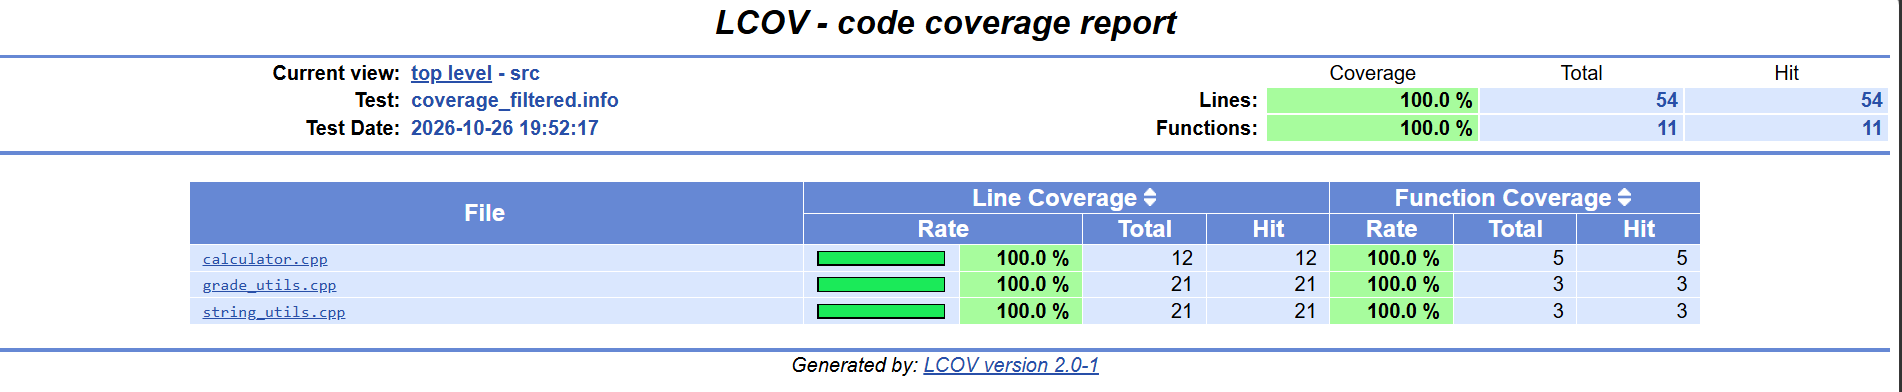
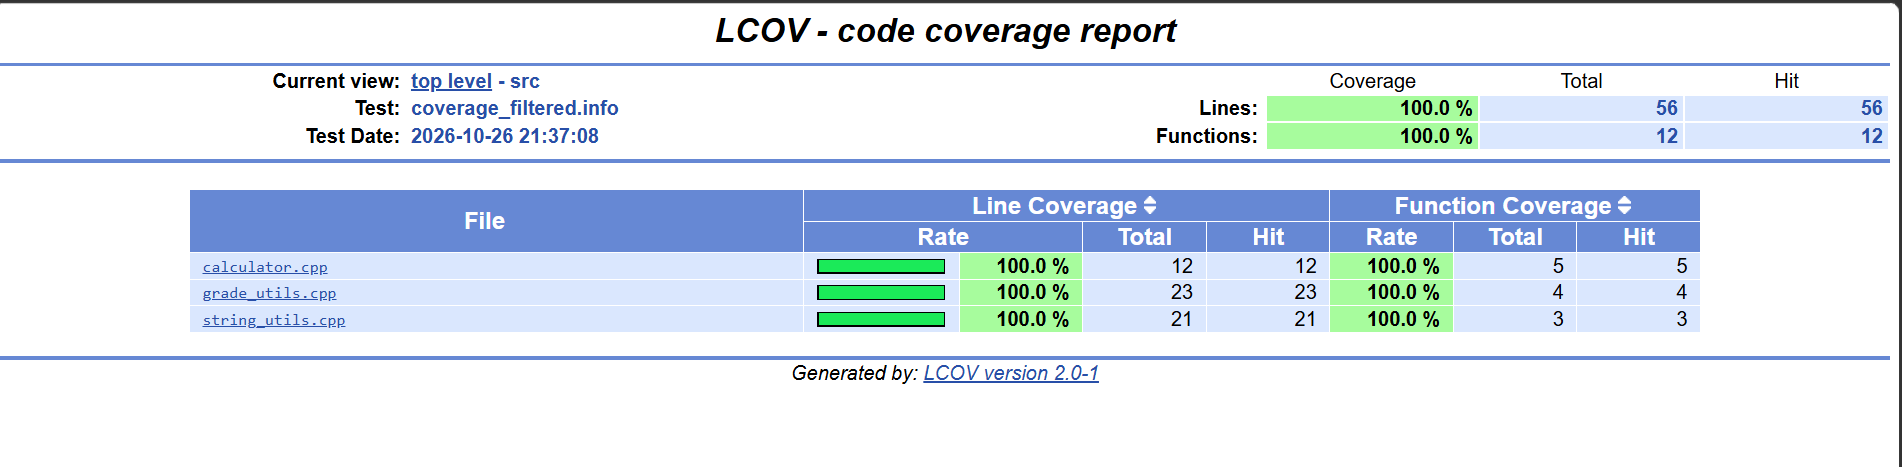
Actualiza cobertura y documentacion final del laboratorio

diff --git a/laboratorio-testing/docs/parte5-cobertura.md b/laboratorio-testing/docs/parte5-cobertura.md
@@ -1,0 +1,146 @@
+nano ../docs/parte5-cobertura.md
+# Parte 8. Cobertura de código
+
+## Objetivo
+
+Medir qué partes del código fuente fueron ejecutadas durante las pruebas automatizadas, utilizando lcov y genhtml para identificar la cobertura obtenida.
+
+## ¿Qué es la cobertura de código?
+
+La cobertura de código es una métrica que permite identificar qué líneas, funciones o ramas de un programa fueron ejecutadas durante las pruebas automatizadas.
+
+Esta información permite reconocer partes del código que todavía no han sido evaluadas y orientar el diseño de pruebas adicionales.
+
+## Herramientas utilizadas
+
+Se utilizaron las siguientes herramientas:
+
+- CMake: configuración y compilación del proyecto.
+- Google Test: ejecución de pruebas unitarias.
+- lcov: recopilación de datos de cobertura.
+- genhtml: generación del reporte de cobertura en formato HTML.
+
+## Procedimiento
+
+Primero, se configuró el proyecto con la opción de cobertura habilitada:
+
+```bash
+cmake -DENABLE_COVERAGE=ON ..
+make
+./run_tests
+```
+
+Posteriormente, se utilizó lcov para recopilar los datos de cobertura.
+
+Durante el procedimiento inicial se presentó un error relacionado con archivos de Google Test y la recopilación de información de cobertura.
+
+Para resolverlo, se limitó la recopilación a los archivos compilados de la biblioteca project_lib mediante el comando:
+
+```bash
+lcov --capture --directory CMakeFiles/project_lib.dir --output-file coverage.info
+```
+
+Después se filtró la información y se generó el reporte HTML:
+
+```bash
+lcov --remove coverage.info '/usr/*' '*/_deps/*' '*/tests/*' --output-file coverage_filtered.info
+genhtml coverage_filtered.info --output-directory coverage_report
+```
+
+Finalmente, se consultaron los resultados mediante:
+
+```bash
+lcov --list coverage_filtered.info
+```
+
+## Resultados obtenidos
+
+Después de implementar las pruebas del mini reto, se realizó una nueva medición de cobertura para incluir la función `is_valid_grade()`.
+
+Los resultados definitivos fueron:
+
+| Archivo | Líneas cubiertas | Funciones cubiertas |
+|---|---|---|
+| calculator.cpp | 100% (12/12) | 100% (5/5) |
+| grade_utils.cpp | 100% (23/23) | 100% (4/4) |
+| string_utils.cpp | 100% (21/21) | 100% (3/3) |
+| Total | 100% (56/56) | 100% (12/12) |
+
+La cobertura total alcanzó el 100% de las líneas y funciones instrumentadas.
+
+La nueva medición incluyó las cuatro funciones de grade_utils.cpp, incorporando la función is_valid_grade() desarrollada durante el mini reto.
+
+No se identificaron líneas ni funciones sin ejecutar. Sin embargo, la cobertura de ramas no fue medida, por lo que estos resultados no garantizan que se hayan probado todas las condiciones posibles del programa.
+
+
+## Resultados obtenidos
+
+Después de implementar las pruebas del mini reto, se realizó una nueva medición de cobertura para incluir la función `is_valid_grade()`.
+
+Los resultados definitivos fueron:
+
+| Archivo | Líneas cubiertas | Funciones cubiertas |
+|---|---|---|
+| calculator.cpp | 100% (12/12) | 100% (5/5) |
+| grade_utils.cpp | 100% (23/23) | 100% (4/4) |
+| string_utils.cpp | 100% (21/21) | 100% (3/3) |
+| Total | 100% (56/56) | 100% (12/12) |
+
+La cobertura total alcanzó el 100% de las líneas y funciones instrumentadas.
+
+La nueva medición incluyó las cuatro funciones de grade_utils.cpp, incorporando la función is_valid_grade() desarrollada durante el mini reto.
+
+No se identificaron líneas ni funciones sin ejecutar. Sin embargo, la cobertura de ramas no fue medida, por lo que estos resultados no garantizan que se hayan probado todas las condiciones posibles del programa.
+
+
+## Análisis de resultados
+
+### Archivo con mayor cobertura
+
+Los tres archivos evaluados alcanzaron una cobertura de líneas del 100%, por lo que ninguno presentó un porcentaje superior a los demás.
+
+### Archivo con menor cobertura
+
+Ninguno de los archivos presentó una cobertura inferior. Los tres alcanzaron el mismo porcentaje de cobertura.
+
+### Líneas o ramas no cubiertas
+
+El reporte no identificó líneas ni funciones sin ejecutar en los archivos analizados.
+
+Sin embargo, no se realizó una medición específica de cobertura de ramas. Por esta razón, el resultado no permite afirmar que todas las alternativas de las condiciones del programa hayan sido evaluadas.
+
+### Pruebas adicionales propuestas
+
+Aunque se alcanzó el 100% de cobertura de líneas y funciones, se pueden ampliar los escenarios evaluados mediante nuevas pruebas.
+
+1. Comprobar que count_vowels("AEIOU") devuelva 5, para verificar explícitamente el reconocimiento de vocales mayúsculas.
+2. Comprobar que divide(0, 5) devuelva 0, para evaluar una división cuyo dividendo sea cero.
+
+Estas pruebas ampliarían la variedad de entradas verificadas, aunque no necesariamente aumentarían el porcentaje de cobertura de líneas, que ya alcanzó el 100%.
+
+## Evidencia
+
+![Reporte de cobertura](evidencias/07-cobertura.png)
+
+## Preguntas de reflexión
+
+### 1. ¿Qué significa tener 100% de cobertura?
+
+Significa que todas las unidades de código consideradas por la métrica utilizada fueron ejecutadas durante las pruebas. En este caso, el 100% de cobertura de líneas indica que todas las líneas instrumentadas fueron ejecutadas.
+
+### 2. ¿Tener 100% de cobertura garantiza que el programa no tiene errores?
+
+No. Aunque todas las líneas hayan sido ejecutadas, pueden existir errores lógicos o comportamientos incorrectos que las pruebas no hayan detectado.
+
+### 3. ¿Qué diferencia hay entre cobertura de líneas y cobertura de ramas?
+
+La cobertura de líneas indica qué líneas del código fueron ejecutadas. La cobertura de ramas evalúa si se ejecutaron las distintas alternativas de las decisiones presentes en el programa.
+
+### 4. ¿Por qué una línea ejecutada no necesariamente significa que fue bien probada?
+
+Porque ejecutar una línea no garantiza que se haya comprobado correctamente su resultado ni que se hayan evaluado todas sus posibles condiciones de funcionamiento.
+
+### 5. ¿Cómo puede ayudar la cobertura a mejorar las pruebas?
+
+Permite identificar partes del programa que no han sido ejecutadas y orientar la implementación de nuevos casos de prueba. También ayuda a reconocer limitaciones en las verificaciones existentes.
+

diff --git a/laboratorio-testing/docs/parte2-pruebas-unitarias.md b/laboratorio-testing/docs/parte2-pruebas-unitarias.md
@@ -44,3 +44,137 @@ podría producir errores adicionales o resultados inválidos.
 ### Evidencia del fallo
 
 ![Fallo intencional con ASSERT](evidencias/03-fallo-assert.png)
+
+## Parte 2. Implementación inicial del código
+
+### Módulos implementados
+
+Se implementaron tres módulos principales en C++:
+
+- calculator: operaciones matemáticas y verificación de números pares.
+- string_utils: conversión de cadenas a mayúsculas, identificación de palíndromos y conteo de vocales.
+- grade_utils: cálculo de promedios, identificación de notas aprobatorias y conversión de calificaciones numéricas a letras.
+
+### Función de los archivos
+
+Los archivos .h contienen las declaraciones de las funciones y permiten que otros archivos del proyecto conozcan sus interfaces.
+
+Los archivos .cpp contienen la implementación de las funciones y las instrucciones necesarias para realizar sus operaciones.
+
+Esta separación facilita la organización, reutilización y mantenimiento del código.
+
+### Casos normales, borde e inválidos
+
+En calculator se identificaron casos normales como sumas y multiplicaciones, casos borde como operaciones con cero y casos inválidos como divisiones entre cero.
+
+En string_utils se identificaron casos normales como convertir texto a mayúsculas, casos borde como cadenas vacías y cadenas de un solo carácter.
+
+En grade_utils se identificaron casos normales como calcular promedios y convertir calificaciones, casos borde como notas de 0, 70 y 100, y casos inválidos como listas vacías o calificaciones fuera del intervalo permitido.
+
+## Parte 3. Primeras pruebas unitarias
+
+### Objetivo
+
+Implementar pruebas automatizadas mediante Google Test para verificar el funcionamiento individual de las funciones desarrolladas.
+
+### Pruebas implementadas
+
+Inicialmente se implementaron 25 pruebas distribuidas de la siguiente manera:
+
+| Módulo | Pruebas |
+|---|---|
+| CalculatorTest | 8 |
+| StringUtilsTest | 7 |
+| GradeUtilsTest | 10 |
+| Total | 25 |
+
+### Comandos utilizados
+
+Desde la carpeta build se ejecutaron los siguientes comandos:
+
+```bash
+cmake ..
+make
+./run_tests
+ctest --output-on-failure
+```
+
+### Resultados
+
+Las 25 pruebas iniciales se ejecutaron correctamente.
+
+También se utilizó CTest, que permitió verificar la ejecución de las pruebas integradas con CMake.
+
+### Explicación de cinco pruebas
+
+#### 1. AddPositiveNumbers
+
+Comprueba que la función add() retorne el resultado correcto al sumar dos números positivos.
+
+Se evalúa add(2, 3) y se espera obtener 5.
+
+#### 2. DivideByZeroThrowsException
+
+Verifica que la función divide() produzca una excepción de tipo std::invalid_argument cuando el divisor es cero.
+
+Esta prueba permite comprobar que el programa maneja una operación inválida.
+
+#### 3. DetectSimplePalindrome
+
+Comprueba que is_palindrome("radar") devuelva true, porque la cadena se lee igual en ambos sentidos.
+
+#### 4. CalculateAverage
+
+Verifica que average() calcule correctamente el promedio de las calificaciones 80, 90 y 100.
+
+El resultado esperado es 90.
+
+#### 5. InvalidGradeThrowsException
+
+Comprueba que letter_grade(120) produzca una excepción, debido a que 120 está fuera del intervalo válido de calificaciones.
+
+### Evidencias
+
+![Pruebas iniciales de Google Test](evidencias/01-pruebas-google-test.png)
+
+![Ejecución mediante CTest](evidencias/02-pruebas-ctest.png)
+
+### Preguntas de reflexión
+
+#### 1. ¿Qué significa que una prueba pase?
+
+Significa que las comprobaciones realizadas durante esa prueba se cumplieron y que el resultado observado coincidió con lo esperado.
+
+#### 2. ¿Qué significa que una prueba falle?
+
+Significa que alguna comprobación no produjo el resultado esperado o que ocurrió un problema durante la ejecución.
+
+#### 3. ¿Qué diferencia hay entre probar una función manualmente y probarla con Google Test?
+
+Las pruebas manuales requieren ejecutar y revisar los resultados individualmente. Google Test automatiza las comprobaciones y permite ejecutarlas repetidamente.
+
+#### 4. ¿Por qué las pruebas unitarias deben ser rápidas?
+
+Porque suelen ejecutarse frecuentemente durante el desarrollo. Una ejecución rápida facilita detectar errores después de modificar el código.
+
+#### 5. ¿Por qué las pruebas unitarias deben ser deterministas?
+
+Porque deben producir resultados consistentes bajo las mismas condiciones. Esto permite identificar errores y reproducir fallos de manera confiable.
+
+## Preguntas adicionales sobre EXPECT y ASSERT
+
+### 1. ¿Cuándo conviene usar EXPECT_?
+
+Cuando se desea registrar un fallo sin detener inmediatamente la prueba, permitiendo continuar con otras comprobaciones.
+
+### 2. ¿Cuándo conviene usar ASSERT_?
+
+Cuando una condición es indispensable para continuar la prueba de manera segura o para que las siguientes verificaciones tengan sentido.
+
+### 3. ¿Qué podría pasar si se usa EXPECT_ cuando en realidad se necesitaba detener la prueba?
+
+La prueba podría continuar utilizando valores inválidos y generar errores adicionales o resultados que dificulten identificar el problema original.
+
+### 4. ¿Qué podría pasar si se usa ASSERT_ en exceso?
+
+Se podría interrumpir la ejecución antes de realizar otras verificaciones independientes, reduciendo la información obtenida sobre posibles fallos.

diff --git a/laboratorio-testing/docs/parte1-plan-pruebas.md b/laboratorio-testing/docs/parte1-plan-pruebas.md
@@ -74,3 +74,67 @@ Significa concentrarse en qué resultados debe producir el programa ante determi
 #### 4. ¿Por qué la documentación de casos de prueba ayuda al equipo?
 
 Porque permite identificar los requisitos evaluados, las entradas utilizadas y los resultados esperados, facilitando la comprensión, reproducción y mantenimiento de las pruebas.
+
+## Parte 1. Preparación del proyecto
+
+### Objetivo
+
+Preparar el entorno de desarrollo y establecer la estructura de un proyecto en C++ que permita implementar y ejecutar pruebas automatizadas mediante Google Test y CMake.
+
+### Herramientas utilizadas
+
+#### CMake
+
+CMake es una herramienta que permite configurar y organizar la compilación de proyectos de software.
+
+En este laboratorio se utilizó para establecer el estándar C++17, definir los archivos fuente, integrar Google Test y generar el ejecutable encargado de las pruebas.
+
+#### Google Test
+
+Google Test es un framework para implementar pruebas automatizadas en C++.
+
+Permite definir casos de prueba y utilizar instrucciones como `EXPECT_EQ`, `EXPECT_TRUE`, `EXPECT_FALSE` y `ASSERT_NE` para comprobar el comportamiento de las funciones.
+
+#### Automatización de pruebas
+
+Automatizar pruebas consiste en preparar verificaciones que puedan ejecutarse mediante comandos, sin necesidad de comprobar manualmente cada resultado.
+
+Esto permite repetir las verificaciones después de realizar modificaciones en el código.
+
+#### Repetibilidad
+
+Una prueba repetible permite obtener resultados consistentes cuando se ejecuta bajo las mismas condiciones.
+
+Esta característica es importante porque facilita identificar errores y comprobar que las correcciones realizadas funcionan correctamente.
+
+### Estructura creada
+
+Se creó la carpeta `laboratorio-testing` dentro del repositorio del curso.
+
+El proyecto se organizó en las siguientes carpetas:
+
+- `include/`: declaraciones de funciones en archivos de cabecera.
+- `src/`: implementación de las funciones en C++.
+- `tests/`: pruebas automatizadas mediante Google Test.
+- `docs/`: documentación de las actividades y resultados.
+- `.github/workflows/`: configuración del workflow de GitHub Actions.
+
+También se creó el archivo `CMakeLists.txt` para configurar la compilación.
+
+### Preguntas de reflexión
+
+#### 1. ¿Por qué conviene separar el código fuente de las pruebas?
+
+Porque facilita la organización y el mantenimiento del proyecto. Además, permite modificar las pruebas sin alterar directamente la implementación de las funciones.
+
+#### 2. ¿Qué ventaja tiene usar CMake en un proyecto de C++?
+
+Permite organizar la compilación y gestionar las dependencias desde un archivo de configuración, evitando tener que ejecutar manualmente comandos extensos para compilar cada archivo.
+
+#### 3. ¿Por qué es útil que las pruebas se puedan ejecutar con un solo comando?
+
+Porque simplifica la verificación del proyecto y permite comprobar rápidamente si las modificaciones introdujeron errores.
+
+#### 4. ¿Qué diferencia hay entre probar manualmente y probar automáticamente?
+
+Las pruebas manuales requieren que una persona ejecute y revise los resultados de cada caso. Las pruebas automatizadas realizan estas comprobaciones mediante código, lo que facilita repetirlas y detectar inconsistencias.

diff --git a/laboratorio-testing/docs/reflexion-final.md b/laboratorio-testing/docs/reflexion-final.md
@@ -58,9 +58,14 @@ Las seis pruebas del mini reto se completaron correctamente.
 
 ![Resultados del mini reto](evidencias/11-mini-reto.png)
 
+
 ### Integración con GitHub Actions
 
-Los cambios se subirán al repositorio de GitHub para comprobar que el workflow automatizado ejecuta correctamente las nuevas pruebas.
+Los cambios realizados durante el mini reto se subieron al repositorio de GitHub mediante los comandos `git add`, `git commit` y `git push`.
+
+Posteriormente, se verificó la ejecución automática del workflow configurado en GitHub Actions. El proceso permitió compilar el proyecto y ejecutar las 48 pruebas implementadas, incluyendo las seis correspondientes a la función `is_valid_grade()`.
+
+La ejecución finalizó correctamente, sin pruebas fallidas, confirmando que la nueva funcionalidad se integró al proyecto sin afectar las pruebas existentes.
 
 ### Preguntas de reflexión
 
